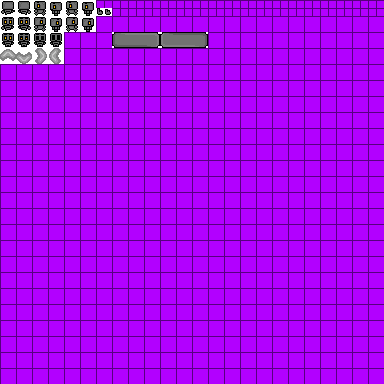
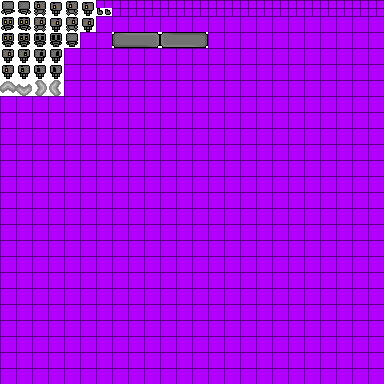
Standing still in direction that you last moved

Changed region(s): [[0.0, 0.0625, 0.2188, 0.25]]

diff --git a/src/se/angin/dungeonhunter/movableobjects/Player.java b/src/se/angin/dungeonhunter/movableobjects/Player.java
@@ -55,7 +55,7 @@ public class Player implements KeyListener {
 	public static Rectangle render;
 	
 	private int animationState = 0;
-	
+	private static int lastAnimationState;
 	/*
 	 * 0 = up
 	 * 1 = down
@@ -72,8 +72,14 @@ public class Player implements KeyListener {
 	Animator ani_right;
 	private ArrayList<BufferedImage> listLeft;
 	Animator ani_left;
-	private ArrayList<BufferedImage> listIdel;
-	Animator ani_idel;
+	private ArrayList<BufferedImage> listIdelUp;
+	Animator ani_idel_up;
+	private ArrayList<BufferedImage> listIdelDown;
+	Animator ani_idel_down;
+	private ArrayList<BufferedImage> listIdelRight;
+	Animator ani_idel_right;
+	private ArrayList<BufferedImage> listIdelLeft;
+	Animator ani_idel_left;
 	
 	private HUDManager hudManager;
 	private GUIManager guiManager;
@@ -100,7 +106,10 @@ public class Player implements KeyListener {
 		listDown = new ArrayList<BufferedImage>();
 		listRight = new ArrayList<BufferedImage>();
 		listLeft = new ArrayList<BufferedImage>();
-		listIdel = new ArrayList<BufferedImage>();
+		listIdelUp = new ArrayList<BufferedImage>();
+		listIdelDown = new ArrayList<BufferedImage>();
+		listIdelRight = new ArrayList<BufferedImage>();
+		listIdelLeft = new ArrayList<BufferedImage>();
 
 		listUp.add(Assets.player.getTile(0, 0, 16, 16));
 		listUp.add(Assets.player.getTile(16, 0, 16, 16));
@@ -118,10 +127,23 @@ public class Player implements KeyListener {
 		listLeft.add(Assets.player.getTile(64, 0, 16, 16));
 		listLeft.add(Assets.player.getTile(80, 0, 16, 16));
 
-		listIdel.add(Assets.player.getTile(0, 32, 16, 16));
-		listIdel.add(Assets.player.getTile(16, 32, 16, 16));
-		listIdel.add(Assets.player.getTile(32, 32, 16, 16));
-		listIdel.add(Assets.player.getTile(48, 32, 16, 16));
+
+		listIdelUp.add(Assets.player.getTile(64, 32, 16, 16));
+		
+		listIdelDown.add(Assets.player.getTile(0, 32, 16, 16));
+		listIdelDown.add(Assets.player.getTile(16, 32, 16, 16));
+		listIdelDown.add(Assets.player.getTile(32, 32, 16, 16));
+		listIdelDown.add(Assets.player.getTile(48, 32, 16, 16));
+
+		listIdelRight.add(Assets.player.getTile(0, 48, 16, 16));
+		listIdelRight.add(Assets.player.getTile(16, 48, 16, 16));
+		listIdelRight.add(Assets.player.getTile(32, 48, 16, 16));
+		listIdelRight.add(Assets.player.getTile(48, 48, 16, 16));
+		
+		listIdelLeft.add(Assets.player.getTile(0, 64, 16, 16));
+		listIdelLeft.add(Assets.player.getTile(16, 64, 16, 16));
+		listIdelLeft.add(Assets.player.getTile(32, 64, 16, 16));
+		listIdelLeft.add(Assets.player.getTile(48, 64, 16, 16));
 		
 		
 		//UP
@@ -144,10 +166,22 @@ public class Player implements KeyListener {
 		ani_left.setSpeed(animationSpeed);
 		ani_left.play();
 		
-		//IDEL
-		ani_idel = new Animator(listIdel);
-		ani_idel.setSpeed(animationSpeed);
-		ani_idel.play();
+		//IDEL UP
+		ani_idel_up = new Animator(listIdelUp);
+		ani_idel_up.setSpeed(animationSpeed);
+		ani_idel_up.play();
+		//IDEL DOWN
+		ani_idel_down = new Animator(listIdelDown);
+		ani_idel_down.setSpeed(animationSpeed);
+		ani_idel_down.play();
+		//IDEL RIGHT
+		ani_idel_right = new Animator(listIdelRight);
+		ani_idel_right.setSpeed(animationSpeed);
+		ani_idel_right.play();
+		//IDEL LEFT
+		ani_idel_left = new Animator(listIdelLeft);
+		ani_idel_left.setSpeed(animationSpeed);
+		ani_idel_left.play();
 		
 		spawned = true;
 	}
@@ -195,9 +229,24 @@ public class Player implements KeyListener {
 			moveMapLeftGlide(moveAmountLeft);
 		}
 		
+		//Standing still
 		if(!up && !down && !right && !left){
-			//Standing still
-			animationState = 4;
+			if(lastAnimationState == 0){
+				System.out.println("UP");
+				animationState = 4;
+			}
+			if(lastAnimationState == 1){
+				System.out.println("DOWN");
+				animationState = 5;
+			}
+			if(lastAnimationState == 2){
+				System.out.println("RIGHT");
+				animationState = 6;
+			}
+			if(lastAnimationState == 3){
+				System.out.println("LEFT");
+				animationState = 7;				
+			}
 			if(moving){
 				moving = false;
 			}
@@ -209,7 +258,7 @@ public class Player implements KeyListener {
 				ani_down.setSpeed(animationSpeed);
 				ani_right.setSpeed(animationSpeed);
 				ani_left.setSpeed(animationSpeed);
-				ani_idel.setSpeed(animationSpeed);
+				ani_idel_up.setSpeed(animationSpeed);
 				maxSpeed += 64;
 			}
 		}else{
@@ -219,7 +268,7 @@ public class Player implements KeyListener {
 				ani_down.setSpeed(animationSpeed);
 				ani_right.setSpeed(animationSpeed);
 				ani_left.setSpeed(animationSpeed);
-				ani_idel.setSpeed(animationSpeed);
+				ani_idel_up.setSpeed(animationSpeed);
 				maxSpeed -= 64;
 			}
 		}
@@ -617,13 +666,25 @@ public class Player implements KeyListener {
 				ani_left.update(System.currentTimeMillis());
 			}
 		}
-		//IDEL
+		//IDEL UP
 		if(animationState == 4){
-			g.drawImage(ani_idel.sprite, (int) pos.xPos - width/2, (int) pos.yPos - height, width * scale, height * scale, null);
-			ani_idel.update(System.currentTimeMillis());
+			g.drawImage(ani_idel_up.sprite, (int) pos.xPos - width/2, (int) pos.yPos - height, width * scale, height * scale, null);
+			ani_idel_up.update(System.currentTimeMillis());
 		}
-		
-		
+		//IDEL DOWN
+		if(animationState == 5){
+			g.drawImage(ani_idel_down.sprite, (int) pos.xPos - width/2, (int) pos.yPos - height, width * scale, height * scale, null);
+			ani_idel_down.update(System.currentTimeMillis());
+		}
+		//IDEL RIGHT
+		if(animationState == 6){
+			g.drawImage(ani_idel_right.sprite, (int) pos.xPos - width/2, (int) pos.yPos - height, width * scale, height * scale, null);
+			ani_idel_right.update(System.currentTimeMillis());
+		}//IDEL LEFT
+		if(animationState == 7){
+			g.drawImage(ani_idel_left.sprite, (int) pos.xPos - width/2, (int) pos.yPos - height, width * scale, height * scale, null);
+			ani_idel_left.update(System.currentTimeMillis());
+		}
 		
 		g.drawRect((int) pos.xPos - renderDistanceWidth*32/2 + width/2, (int) pos.yPos - renderDistanceHeight*32/2 + height/2, renderDistanceWidth*32, renderDistanceHeight*32);
 
@@ -648,17 +709,17 @@ public class Player implements KeyListener {
 			}
 			down = true;
 		}
-		if (key == KeyEvent.VK_A) {
-			if(!moving){
-				moving=true;
-			}
-			left = true;
-		}
 		if (key == KeyEvent.VK_D) {
 			if(!moving){
 				moving=true;
 			}
 			right = true;
+		}
+		if (key == KeyEvent.VK_A) {
+			if(!moving){
+				moving=true;
+			}
+			left = true;
 		}
 		if (key == KeyEvent.VK_SHIFT) {
 			running= true;
@@ -680,16 +741,20 @@ public class Player implements KeyListener {
 		int key = e.getKeyCode();
 
 		if (key == KeyEvent.VK_W) {
+			lastAnimationState = 0;
 			up = false;
 		}
 		if (key == KeyEvent.VK_S) {
+			lastAnimationState = 1;
 			down = false;
 		}
-		if (key == KeyEvent.VK_A) {
-			left = false;
-		}
 		if (key == KeyEvent.VK_D) {
+			lastAnimationState = 2;
 			right = false;
+		}
+		if (key == KeyEvent.VK_A) {
+			lastAnimationState = 3;
+			left = false;
 		}
 		if (key == KeyEvent.VK_P) {
 			DungeonLevelLoader.world.changeToWorld("World2", "map2");
@@ -736,8 +801,6 @@ public class Player implements KeyListener {
 	public PlayerActions getPlayerActions() {
 		return playerActions;
 	}
-	
-	
 	
 	
 	public static class PlayerActions{

diff --git a/src/se/angin/dungeonhunter/main/Assets.java b/src/se/angin/dungeonhunter/main/Assets.java
@@ -54,10 +54,10 @@ public class Assets {
 		player.setSpriteSheet(LoadImageFrom.LoadImageFrom(Main.class, "EntitySheet.png"));
 
 		//PLAYER ATTACK
-		attack_up = player.getTile(0, 48, 16, 16);
-		attack_down = player.getTile(16, 48, 16, 16);
-		attack_right = player.getTile(32, 48, 16, 16);
-		attack_left = player.getTile(48, 48, 16, 16);
+		attack_up = player.getTile(0, 64+16, 16, 16);
+		attack_down = player.getTile(16, 64+16, 16, 16);
+		attack_right = player.getTile(32, 64+16, 16, 16);
+		attack_left = player.getTile(48, 64+16, 16, 16);
 		
 		//MOUSE TEXTURE
 		mouse_realesed = player.getTile(64+32, 8, 8, 8);
